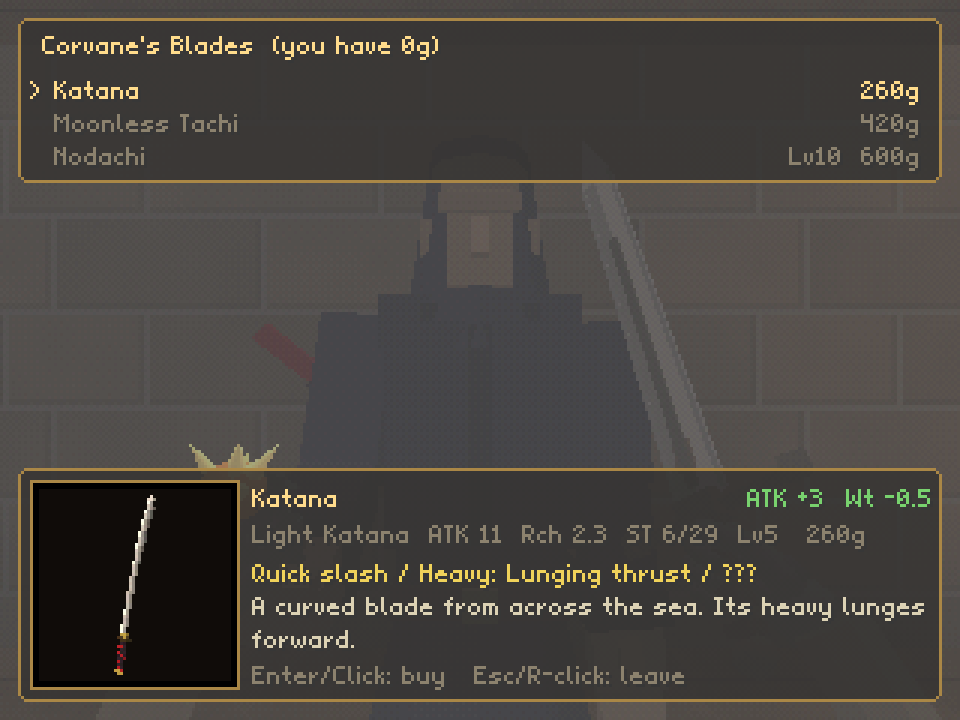
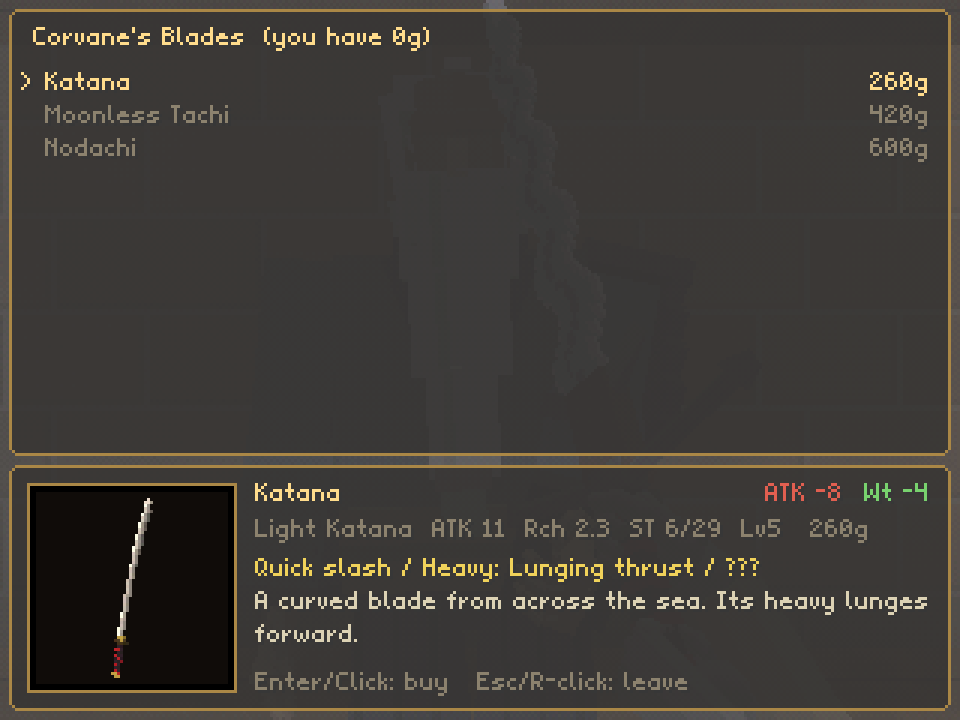
Give the villagers real hands in place of block mitts
Each villager's hand is now the player's fist made faceted: a palm narrowing
to the heel, four fingers of three bones curling joint by joint, and a
three-boned thumb, smaller than the arm. Hands close round what they hold,
turning with the tool; staffs and spears now stand upright through the fist.
Corvane's left hand grips his scabbard and his right closes as it nears the
hilt. Villagers beyond DETAIL_RANGE draw a three-part hand.

Retake the Odrin, forge and Corvane screenshots with other weapons in hand.

Changed region(s): [[0.0, 0.0, 1.0, 1.0]]

diff --git a/src/ashen_vault/render/models.py b/src/ashen_vault/render/models.py
@@ -1575,12 +1575,13 @@ def _spider_leg(r, i, side, phase, amp, body, band, curl=0.0):
                 r.part("wedge", 0.45, 0.05, 0, 0.04, 0.09, 0.04, (40, 32, 40), rz=-0.5)  # a bristling spine
 
 
-def npc(r, look, t=0.0):
+def npc(r, look, t=0.0, near=True):
     """A villager facing +X, built from a `villagers.Look` square and blocky, as the old PS1 crawlers
     drew their folk: chunky boots and box legs (or a long robe flaring to its hem, or a kimono's wide
     hakama), a box chest with square shoulders and a coat skirt flaring below the belt, trimmed at hem,
     collar and cuffs, an apron or cloak, box arms hanging flush from the shoulders' corners ending in
-    mitt hands, and an angular, faceless head (a flat face, a brow and a nose, no eyes) sitting right on
+    faceted hands (a flat palm, four jointed fingers and a thumb, closed round what they hold; three
+    parts each beyond `world.DETAIL_RANGE`, `near` False), and an angular, faceless head (a flat face, a brow and a nose, no eyes) sitting right on
     the collar, under block hair, a beard, a hat or hood. They hold their trade's tool and idle by it
     (`look.idle`): the smith works a billet on the anvil before him (`villagers.smith_cycle`), the
     swordmaster stands ready by his blades (`villagers.half_draw`)."""
@@ -1597,7 +1598,7 @@ def npc(r, look, t=0.0):
             _smith_anvil(r, t)
         with r.at(0, 0.95, 0, rz=-stoop - lean):  # everything above the hips leans with the stoop
             _villager_torso(r, look, ws)
-            _villager_arms(r, look, ws, t, beat)
+            _villager_arms(r, look, ws, t, beat, near)
             with r.at(
                 0.03, HEAD_AT, 0, rz=stoop * 0.6 + lean * 0.5 - nod - (0.12 if look.idle == "pray" else 0.0)
             ):
@@ -1652,6 +1653,75 @@ def _mitt(r, rgb, size=0.15, grip=False, length=1.0):
     else:
         r.part("cube", 0, -ln * 1.15, 0, s * 0.56, ln * 0.55, s * 0.9, _dim(rgb, 0.94))
     r.part("cube", s * 0.42, -ln * 0.45, 0, s * 0.26, ln * 0.5, s * 0.3, _dim(rgb, 0.97), rz=0.4)  # thumb
+
+
+HAND_SIZE = 1.3  # the hand's scale: a little smaller than the arm is wide, yet readable from afar
+# Where a closed hand holds its haft: (below the wrist, toward the palm), the fingers wrapped round it.
+GRIP_AT = (-0.155, -0.026)
+POLE_TOOLS = ("staff", "spear")
+# A villager's four fingers, index (+X, by the thumb) to little: (offset along the knuckles, first
+# and second segment lengths). The middle finger is the longest, the little one the shortest.
+VILLAGER_FINGERS = (
+    (0.034, 0.042, 0.034),
+    (0.0115, 0.047, 0.037),
+    (-0.0115, 0.044, 0.035),
+    (-0.033, 0.034, 0.028),
+)
+KNUCKLES_AT = -0.1  # the finger roots, below the wrist
+VILLAGER_BONES = 0.62  # a villager's finger bones against the player's (before HAND_SIZE)
+VILLAGER_GIRTH = 0.68  # and their thickness: stouter for their length, so they read from afar
+REST_CURL = 0.35  # a hanging hand's loosely bent fingers
+GRIP_CURL = 1.45  # fingers closed round a haft
+
+
+def _villager_hand(r, rgb, side, curl=REST_CURL, thumb=0.45, thin=1.0, fat=1.0, knotty=False, seam=None):
+    """A villager's hand hanging from the wrist at the origin (down -Y), faceted rather than round
+    but shaped like a hand: smaller than the arm, a flat palm narrowing to the heel, the thumb toward
+    +X and the palm toward the body (-`side` Z). Four fingers of two segments each curl in toward
+    the palm by `curl` per joint (wrapping a haft along X at GRIP_CURL), and a two-segment thumb
+    swings forward off the palm by `thumb`. `thin` slims the bones (an old hand, `knotty` at the
+    joints), `fat` thickens them (a work glove, `seam` stitched down its back)."""
+    # Built as the player's fist is (`_fist`: FINGERS' lengths and girths, three BONES a finger curling
+    # by CURL's share at each joint, a three-bone thumb from the heel), but faceted like the villagers.
+    k = VILLAGER_BONES / FIST_SCALE
+    shade = _dim(rgb, 0.86)
+    r.part("frustum", 0, -0.01, 0, 0.085 * fat, 0.05, 0.058 * fat, rgb, rz=FLIP)  # the wrist, narrowing
+    r.part("frustum", 0, -0.058, 0, 0.1 * fat, 0.09, 0.044 * fat * thin, rgb)  # palm, wide at the knuckles
+    r.part("frustum", -0.012, -0.03, -side * 0.006, 0.07 * fat, 0.04, 0.05 * fat, _dim(rgb, 0.95), rz=FLIP)
+    if seam:
+        r.part("cube", 0, -0.055, side * 0.023 * fat, 0.008, 0.08, 0.004, seam)
+    for i, ((_, ln, girth), x) in enumerate(zip(FINGERS, (0.034, 0.0115, -0.0115, -0.033), strict=True)):
+        tone = rgb if i % 2 == 0 else _dim(rgb, 0.9)  # neighbours apart, so each finger reads
+        thick = FINGER * girth * VILLAGER_GIRTH * fat * thin
+        with ExitStack() as stack:
+            stack.enter_context(r.at(x * fat, KNUCKLES_AT, 0))
+            j = thick * (1.35 if knotty else 1.15)
+            r.part("cube", 0, 0, 0, j, j * 0.8, j, _bright(tone, 1.06, 4))  # the knuckle
+            for bone, bend in zip(BONES, CURL, strict=True):
+                stack.enter_context(r.at(0, 0, 0, rx=side * curl * bend / CURL[0]))
+                length = bone * ln * k
+                r.part("frustum", 0, -length / 2, 0, thick, length, thick, tone, rz=FLIP)
+                stack.enter_context(r.at(0, -length, 0))
+                thick *= 0.88
+    # The thumb: from the heel's fleshy root on the index side, out and forward, closing across the
+    # fingers by `thumb`.
+    thick = FINGER * 1.2 * VILLAGER_GIRTH * fat * thin
+    with ExitStack() as stack:
+        stack.enter_context(r.at(0.04 * fat, -0.03, -side * 0.012, rz=0.3 - 0.1 * thumb))
+        for n, (length, bend) in enumerate(((0.03, 0.25), (0.026, 0.55), (0.02, 0.45))):
+            stack.enter_context(r.at(0, 0, 0, rx=side * (bend * thumb + (0.25 if n == 0 else 0.0))))
+            r.part("frustum", 0, -length / 2, 0, thick, length, thick, rgb if n % 2 == 0 else shade, rz=FLIP)
+            stack.enter_context(r.at(0, -length, 0))
+            thick *= 0.88
+
+
+def _villager_hand_far(r, rgb, side, curl=REST_CURL, fat=1.0):
+    """The same hand for a villager seen from afar, in three parts: palm, the fingers as one curled
+    slab and the thumb."""
+    r.part("frustum", 0, -0.055, 0, 0.098 * fat, 0.1, 0.046 * fat, rgb)
+    with r.at(0, KNUCKLES_AT, 0, rx=side * curl):
+        r.part("cube", 0, -0.035, 0, 0.088 * fat, 0.07, 0.022 * fat, _dim(rgb, 0.92))
+    r.part("cube", 0.05 * fat, -0.07, -side * 0.01, 0.022, 0.06, 0.022, rgb, rz=0.6)
 
 
 def _villager_legs(r, look, ws):
@@ -1731,9 +1801,9 @@ ARM = 0.16  # a villager's arm, square in section
 LACING = (150, 64, 44)  # the cords that lace a pauldron's plates
 
 
-def _villager_arms(r, look, ws, t, beat):
+def _villager_arms(r, look, ws, t, beat, near=True):
     """Two box arms hanging flush from the chest's square shoulders, each an upper arm and a forearm
-    with a trimmed cuff, ending in a mitt. The right one (+Z) works the tool; the left rests, holds
+    with a trimmed cuff, ending in a hand (`_hand_of`). The right one (+Z) works the tool; the left rests, holds
     the smith's tongs or the swordmaster's scabbard, or both clasp in prayer."""
     sleeve = (look.cloak or look.cloth) if look.garb == "robe" else look.cloth
     reach = _chest_width(ws) / 2 + ARM / 2
@@ -1757,11 +1827,39 @@ def _villager_arms(r, look, ws, t, beat):
                         r.part("cube", 0, -0.27, 0, ARM * 1.12, 0.07, ARM * 1.12, _trim(look))  # cuff
                 if look.gloves:  # a work glove's flared cuff
                     r.part("frustum", 0, -0.26, 0, ARM * 1.25, 0.09, ARM * 1.25, _dim(look.gloves, 0.85))
-                with r.at(0, -0.3, 0):
-                    _mitt(r, hand, grip=tool is not None)
+                pole = tool in POLE_TOOLS
+                # A held tool turns the hand at the wrist: a haft along its knuckles, a staff or spear
+                # cocked upright through the fist.
+                turn = (math.pi / 2 - sh - el) if pole else wrist if tool else 0.0
+                with r.at(0, -0.3, 0, rz=turn):
+                    _hand_of(r, look, side, t, tool, hand, near)
                     if tool:
-                        with r.at(0, -0.09, 0, rz=wrist):
+                        with r.at(0, GRIP_AT[0], side * GRIP_AT[1], rz=-math.pi / 2 if pole else 0.0):
                             _villager_tool(r, tool, t)
+
+
+def _hand_of(r, look, side, t, tool, rgb, near):
+    """Draws one villager hand at the wrist: closed round the tool it holds, else resting by the idle
+    (the swordmaster's left on his scabbard, his right closing as it nears the hilt)."""
+    curl, thumb = (GRIP_CURL, 1.0) if tool else (REST_CURL, 0.2)
+    if look.idle == "ready":
+        if side == -1:  # round the scabbard's mouth, the thumb pressed forward on the guard
+            curl, thumb = 1.1, 0.0
+        else:
+            near_hilt = min(villagers.half_draw(t) / villagers.DRAW_SHOWN * 3, 1.0)
+            curl, thumb = REST_CURL + (GRIP_CURL - REST_CURL) * near_hilt, 0.2 + 0.8 * near_hilt
+    elif look.idle == "pray":
+        curl = 0.7
+    fat = 1.15 if look.gloves else 1.0
+    with r.at(0, 0, 0, s=HAND_SIZE):
+        if not near:
+            _villager_hand_far(r, rgb, side, curl, fat)
+            return
+        bony = look.build == "stooped"
+        _villager_hand(
+            r, rgb, side, curl, thumb, thin=0.92 if bony else 1.0, fat=fat, knotty=bony,
+            seam=_dim(look.gloves, 0.7) if look.gloves else None,
+        )  # fmt: skip
 
 
 def _pauldron(r, rgb):

diff --git a/tests/test_render_logic.py b/tests/test_render_logic.py
@@ -835,7 +835,7 @@ def test_every_weapon_preview_is_centred_and_fits_its_window():
 
 
 def test_every_villager_draws_as_a_person_in_every_idle():
-    """Each villager has legs, a square-shouldered torso, two jointed arms with mitts and a faceless
+    """Each villager has legs, a square-shouldered torso, two jointed arms with hands and a faceless
     head sitting on the collar; whatever they do, nothing sinks below the floor and they stand about a
     person's height."""
     from ashen_vault.render import bounds, models
@@ -1622,3 +1622,24 @@ def test_a_thorn_shot_and_a_flying_flame_draw_a_steady_number_of_glowing_parts()
         sizes = {len(count(draw, t / 7)) for t in range(20)}
         assert len(sizes) == 1, draw  # nothing pops in and out from frame to frame
     assert len(count(flame, 0.0)) <= 20  # a flame stays lean: one is drawn for every bolt and spark
+
+
+def test_villager_hands_are_smaller_than_the_arm_and_close_round_what_they_hold():
+    """A villager's hand is a hand, not a mitt: narrower than the arm, four three-boned fingers and a
+    thumb, and closing it round a haft draws the fingertips up into a fist; from afar it is three parts."""
+    from ashen_vault.render import bounds, models
+
+    for side in (1, -1):
+        lo, hi = bounds.measure(lambda r, s=side: models._villager_hand(r, (200, 160, 120), s))
+        assert hi[0] - lo[0] < models.ARM and hi[2] - lo[2] < models.ARM
+        gpu = _RecordingGpu()
+        models._villager_hand(rig.Rig(gpu), (200, 160, 120), side)
+        assert len(gpu.parts) == 3 + 4 * 4 + 3  # palm, wrist, thumb root; knuckle and bones; thumb
+        rest = bounds.measure(lambda r, s=side: models._villager_hand(r, (200, 160, 120), s))[0][1]
+        fist = bounds.measure(
+            lambda r, s=side: models._villager_hand(r, (200, 160, 120), s, curl=models.GRIP_CURL, thumb=1.0)
+        )[0][1]
+        assert fist > rest + 0.02  # the fingertips curl up toward the palm
+        far = _RecordingGpu()
+        models._villager_hand_far(rig.Rig(far), (200, 160, 120), side)
+        assert len(far.parts) == 3

diff --git a/src/ashen_vault/world/world.py b/src/ashen_vault/world/world.py
@@ -2201,7 +2201,8 @@ class World:
             if npc_id == "enthroned":
                 models.enthroned(rig, t)
             else:
-                models.npc(rig, villagers.look(npc_id), t + p.tx)
+                near = self._baking or math.hypot(p.x - self.player.x, p.z - self.player.z) < DETAIL_RANGE
+                models.npc(rig, villagers.look(npc_id), t + p.tx, near)
         elif k == "barrel":
             models.barrel(rig, p.tx * 7 + p.tz, broken=p.open_t > 0)
         elif k == "secret_wall":

diff --git a/README.md b/README.md
@@ -464,11 +464,11 @@ uv run ashen-vault --map sunken_keep --at 15,21,180 --smoke 100 --script "wait:1
 The README screenshots were taken this way, each with `ASHEN_VAULT_SAVE` pointing at a fresh throwaway
 file. The title is `uv run ashen-vault --smoke 60 --shot title.png` and the village
 `uv run ashen-vault --map harrowmere --at=22,30,-60 --smoke 40 --shot village.png`; Odrin is
-`uv run ashen-vault --map harrowmere --at=28,25,-90 --smoke 40 --script "wait:0.2 interact" --shot dialogue.png`,
+`uv run ashen-vault --map harrowmere --at=28,25,-90 --level 10 --equip primary=mace --smoke 40 --script "wait:0.2 interact" --shot dialogue.png`,
 Belongings is
 `uv run ashen-vault --map harrowmere --at=20,44,-90 --level 6 --equip primary=katana,secondary=round_shield,body=brigandine,hands=chain_mitts --smoke 40 --script "wait:0.2 menu" --shot inventory.png`,
 Corvane's shop is
-`uv run ashen-vault --map harrowmere --at=6,26,180 --level 7 --smoke 220 --script "forward:2 interact wait:0.3 confirm wait:0.3 confirm wait:0.3 confirm wait:0.3 confirm" --shot corvane.png`,
+`uv run ashen-vault --map harrowmere --at=6,26,180 --level 10 --equip primary=flamberge --smoke 220 --script "forward:2 interact wait:0.3 confirm wait:0.3 confirm wait:0.3 confirm wait:0.3 confirm" --shot corvane.png`,
 the cathedral is `uv run ashen-vault --map harrowmere --at=18,6,180 --smoke 40 --shot cathedral.png`,
 the cemetery is `uv run ashen-vault --map ashen_cemetery --smoke 40 --shot cemetery.png`,
 the Mourner is `uv run ashen-vault --map ashen_cemetery --at=11,22,-90 --smoke 40 --shot mourner.png`,
@@ -477,7 +477,7 @@ the burning silk is
 the Sexton is
 `uv run ashen-vault --map ashen_cemetery --at=10,11,-90 --smoke 222 --script "wait:0.1 interact wait:1 forward:0.6" --shot sexton.png`
 (its move is random, so take it again until it breathes its dust),
-the forge is `uv run ashen-vault --map harrowmere --at=8,18,180 --smoke 40 --shot forge.png`,
+the forge is `uv run ashen-vault --map harrowmere --at=8,18,180 --level 10 --equip primary=bastard_sword --smoke 40 --shot forge.png`,
 the Warden is `uv run ashen-vault --map sunken_keep --at=15,7,-90 --smoke 40 --shot warden.png`,
 the hollow's vine path is `uv run ashen-vault --map verdant_hollow --at=9,12,90 --smoke 40 --shot verdant_hollow.png`,
 the Bark Husk is `uv run ashen-vault --map verdant_hollow --at=26,17,-90 --smoke 60 --shot bark_husk.png`,

diff --git a/AGENTS.md b/AGENTS.md
@@ -425,7 +425,10 @@ ASHEN_VAULT_SAVE=/tmp/ashen_test_save.json \
   own pays gold instead (`loot.claim`). No spell scroll, gear or key may be placed twice across maps and
   gifts (`tests/test_loot.py`): give a new find a new item.
 - Villagers are drawn by `models.npc` from a `world/villagers.Look` (build, clothes, hair, hat, held tool,
-  idle); a new villager needs an entry in `villagers.LOOKS`. Brannoc's idle is `smith`: a loop of four
+  idle); a new villager needs an entry in `villagers.LOOKS`. Their hands (`models._villager_hand`) are the player's
+  fist made faceted: three-boned fingers of `FINGERS`' lengths curling by `CURL`'s shares and a
+  three-boned thumb, closed round a held tool (a staff or spear stands upright through the fist,
+  `POLE_TOOLS`); beyond `world.DETAIL_RANGE` they drop to three parts (`_villager_hand_far`). Brannoc's idle is `smith`: a loop of four
   blows on a billet at the anvil his model carries before him, a turn of it in the tongs, a look at it
   and a wipe of the brow (`villagers.smith_cycle`); each blow throws sparks and rings the anvil through
   `World.sfx_near` (`smith_blows`). Corvane, an old swordmaster, wears a `kimono` over hakama, a long
